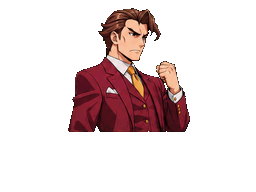
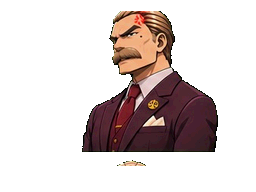
Penna nuevo (perfil en la fiscalía, de frente fuera) y las últimas 3 pruebas del Caso 2
Claude-Session: https://claude.ai/code/session_01Xb94a44mJyTYV8GKKMfxw2

Changed region(s): [[0.25, 0.0312, 0.875, 0.875]]

diff --git a/js/assets.js b/js/assets.js
@@ -1,7 +1,7 @@
 /* Rutas de las imágenes del juego. Para cambiar un sprite, reemplaza el PNG. */
 const ART={ines:{angry:"assets/personajes/ines/angry.png",angryTalk:"assets/personajes/ines/angryTalk.png",ap1:"assets/personajes/ines/ap1.png",ap10:"assets/personajes/ines/ap10.png",ap11:"assets/personajes/ines/ap11.png",ap12:"assets/personajes/ines/ap12.png",ap13:"assets/personajes/ines/ap13.png",ap14:"assets/personajes/ines/ap14.png",ap15:"assets/personajes/ines/ap15.png",ap16:"assets/personajes/ines/ap16.png",ap2:"assets/personajes/ines/ap2.png",ap3:"assets/personajes/ines/ap3.png",ap4:"assets/personajes/ines/ap4.png",ap5:"assets/personajes/ines/ap5.png",ap6:"assets/personajes/ines/ap6.png",ap7:"assets/personajes/ines/ap7.png",ap8:"assets/personajes/ines/ap8.png",ap9:"assets/personajes/ines/ap9.png",base:"assets/personajes/ines/base.png",down:"assets/personajes/ines/down.png",downTalk:"assets/personajes/ines/downTalk.png",face:"assets/personajes/ines/face.png",le1:"assets/personajes/ines/le1.png",le10:"assets/personajes/ines/le10.png",le11:"assets/personajes/ines/le11.png",le12:"assets/personajes/ines/le12.png",le13:"assets/personajes/ines/le13.png",le14:"assets/personajes/ines/le14.png",le15:"assets/personajes/ines/le15.png",le16:"assets/personajes/ines/le16.png",le2:"assets/personajes/ines/le2.png",le3:"assets/personajes/ines/le3.png",le4:"assets/personajes/ines/le4.png",le5:"assets/personajes/ines/le5.png",le6:"assets/personajes/ines/le6.png",le7:"assets/personajes/ines/le7.png",le8:"assets/personajes/ines/le8.png",le9:"assets/personajes/ines/le9.png",papel:"assets/personajes/ines/papel.png",papelTalk:"assets/personajes/ines/papelTalk.png",point:"assets/personajes/ines/point.png",pointTalk:"assets/personajes/ines/pointTalk.png",shock:"assets/personajes/ines/shock.png",shockTalk:"assets/personajes/ines/shockTalk.png",smug:"assets/personajes/ines/smug.png",smugTalk:"assets/personajes/ines/smugTalk.png",sweat:"assets/personajes/ines/sweat.png",sweatTalk:"assets/personajes/ines/sweatTalk.png",talk:"assets/personajes/ines/talk.png",think:"assets/personajes/ines/think.png",thinkTalk:"assets/personajes/ines/thinkTalk.png"},
 
-fiscal:{base:"assets/personajes/fiscal/base.png",talk:"assets/personajes/fiscal/talk.png",smug:"assets/personajes/fiscal/smug.png",smugTalk:"assets/personajes/fiscal/smugTalk.png",cafe:"assets/personajes/fiscal/cafe.png",cafeTalk:"assets/personajes/fiscal/cafeTalk.png",shock:"assets/personajes/fiscal/shock.png",shockTalk:"assets/personajes/fiscal/shockTalk.png",sweat:"assets/personajes/fiscal/sweat.png",sweatTalk:"assets/personajes/fiscal/sweatTalk.png",angry:"assets/personajes/fiscal/angry.png",angryTalk:"assets/personajes/fiscal/angryTalk.png",point:"assets/personajes/fiscal/point.png",pointTalk:"assets/personajes/fiscal/pointTalk.png",cross:"assets/personajes/fiscal/cross.png",crossTalk:"assets/personajes/fiscal/crossTalk.png",face:"assets/personajes/fiscal/face.png",frente_base:"assets/personajes/fiscal/frente_base.png",frente_talk:"assets/personajes/fiscal/frente_talk.png",frente_smug:"assets/personajes/fiscal/frente_smug.png",frente_smugTalk:"assets/personajes/fiscal/frente_smugTalk.png",frente_cafe:"assets/personajes/fiscal/frente_cafe.png",frente_cafeTalk:"assets/personajes/fiscal/frente_cafeTalk.png",frente_shock:"assets/personajes/fiscal/frente_shock.png",frente_shockTalk:"assets/personajes/fiscal/frente_shockTalk.png",frente_sweat:"assets/personajes/fiscal/frente_sweat.png",frente_sweatTalk:"assets/personajes/fiscal/frente_sweatTalk.png",frente_angry:"assets/personajes/fiscal/frente_angry.png",frente_angryTalk:"assets/personajes/fiscal/frente_angryTalk.png",frente_point:"assets/personajes/fiscal/frente_point.png",frente_pointTalk:"assets/personajes/fiscal/frente_pointTalk.png",frente_cross:"assets/personajes/fiscal/frente_cross.png",frente_crossTalk:"assets/personajes/fiscal/frente_crossTalk.png"},
+fiscal:{angry:"assets/personajes/fiscal/angry.png",angryTalk:"assets/personajes/fiscal/angryTalk.png",base:"assets/personajes/fiscal/base.png",cross:"assets/personajes/fiscal/cross.png",cross2:"assets/personajes/fiscal/cross2.png",cross2Talk:"assets/personajes/fiscal/cross2Talk.png",crossTalk:"assets/personajes/fiscal/crossTalk.png",cuff:"assets/personajes/fiscal/cuff.png",cuffTalk:"assets/personajes/fiscal/cuffTalk.png",down:"assets/personajes/fiscal/down.png",downTalk:"assets/personajes/fiscal/downTalk.png",face:"assets/personajes/fiscal/face.png",facepalm:"assets/personajes/fiscal/facepalm.png",facepalmTalk:"assets/personajes/fiscal/facepalmTalk.png",frente_angry:"assets/personajes/fiscal/frente_angry.png",frente_angryTalk:"assets/personajes/fiscal/frente_angryTalk.png",frente_base:"assets/personajes/fiscal/frente_base.png",frente_cross:"assets/personajes/fiscal/frente_cross.png",frente_crossTalk:"assets/personajes/fiscal/frente_crossTalk.png",frente_down:"assets/personajes/fiscal/frente_down.png",frente_downTalk:"assets/personajes/fiscal/frente_downTalk.png",frente_gesture:"assets/personajes/fiscal/frente_gesture.png",frente_gestureTalk:"assets/personajes/fiscal/frente_gestureTalk.png",frente_proud:"assets/personajes/fiscal/frente_proud.png",frente_proudTalk:"assets/personajes/fiscal/frente_proudTalk.png",frente_serious:"assets/personajes/fiscal/frente_serious.png",frente_seriousTalk:"assets/personajes/fiscal/frente_seriousTalk.png",frente_shock:"assets/personajes/fiscal/frente_shock.png",frente_shockTalk:"assets/personajes/fiscal/frente_shockTalk.png",frente_smile:"assets/personajes/fiscal/frente_smile.png",frente_smileTalk:"assets/personajes/fiscal/frente_smileTalk.png",frente_smug:"assets/personajes/fiscal/frente_smug.png",frente_smugTalk:"assets/personajes/fiscal/frente_smugTalk.png",frente_talk:"assets/personajes/fiscal/frente_talk.png",frente_think:"assets/personajes/fiscal/frente_think.png",frente_think2:"assets/personajes/fiscal/frente_think2.png",frente_think2Talk:"assets/personajes/fiscal/frente_think2Talk.png",frente_thinkTalk:"assets/personajes/fiscal/frente_thinkTalk.png",gesture:"assets/personajes/fiscal/gesture.png",gestureTalk:"assets/personajes/fiscal/gestureTalk.png",point:"assets/personajes/fiscal/point.png",pointTalk:"assets/personajes/fiscal/pointTalk.png",proud:"assets/personajes/fiscal/proud.png",proud2:"assets/personajes/fiscal/proud2.png",proud2Talk:"assets/personajes/fiscal/proud2Talk.png",proudTalk:"assets/personajes/fiscal/proudTalk.png",serious:"assets/personajes/fiscal/serious.png",seriousTalk:"assets/personajes/fiscal/seriousTalk.png",shock:"assets/personajes/fiscal/shock.png",shockTalk:"assets/personajes/fiscal/shockTalk.png",smile:"assets/personajes/fiscal/smile.png",smileTalk:"assets/personajes/fiscal/smileTalk.png",smug:"assets/personajes/fiscal/smug.png",smugTalk:"assets/personajes/fiscal/smugTalk.png",sweat:"assets/personajes/fiscal/sweat.png",sweatTalk:"assets/personajes/fiscal/sweatTalk.png",talk:"assets/personajes/fiscal/talk.png",think:"assets/personajes/fiscal/think.png",think2:"assets/personajes/fiscal/think2.png",think2Talk:"assets/personajes/fiscal/think2Talk.png",thinkTalk:"assets/personajes/fiscal/thinkTalk.png"},
 
 testigo:{base:"assets/personajes/testigo/base.png",talk:"assets/personajes/testigo/talk.png",smug:"assets/personajes/testigo/smug.png",smugTalk:"assets/personajes/testigo/smugTalk.png",proud:"assets/personajes/testigo/proud.png",proudTalk:"assets/personajes/testigo/proudTalk.png",sweat:"assets/personajes/testigo/sweat.png",sweatTalk:"assets/personajes/testigo/sweatTalk.png",shock:"assets/personajes/testigo/shock.png",shockTalk:"assets/personajes/testigo/shockTalk.png",angry:"assets/personajes/testigo/angry.png",angryTalk:"assets/personajes/testigo/angryTalk.png",break:"assets/personajes/testigo/break.png",breakTalk:"assets/personajes/testigo/breakTalk.png",cry:"assets/personajes/testigo/cry.png",cryTalk:"assets/personajes/testigo/cryTalk.png",face:"assets/personajes/testigo/face.png"},
 

diff --git a/js/engine.js b/js/engine.js
@@ -26,7 +26,7 @@ function setScene(pos, who, mood, pose, yaVisto){
   if(who===null){ drawSprite(null); return; }
   drawSprite(who,mood,pose);
   sp.dataset.who=who;                                   // Justo tiene su propio encuadre (para que el brazo al apuntar salga completo)
-  sp.classList.toggle("flip", G.pos==="fiscalia");
+  sp.classList.toggle("flip", G.pos==="fiscalia" && who!=="fiscal");   // Penna ya viene dibujado mirando a la izquierda
 }
 function anim(name){
   const sp=$("sprite"), st=$("stage");
@@ -578,7 +578,7 @@ function drawBG(pos){
 /* Qué celda de la hoja usa cada emoción: [callado, hablando, parpadeo] */
 const AMAP={
   ines:{normal:["base","talk"],serious:["base","talk"],smug:["smug","smugTalk"],smile:["smug","smugTalk"],sweat:["sweat","sweatTalk"],shock:["shock","shockTalk"],think:["think","thinkTalk"],angry:["angry","angryTalk"],down:["down","downTalk"],"pose:point":["point","pointTalk"],"pose:papel":["papel","papelTalk"],"pose:papelThink":["le16","le16"]},
-  fiscal:{normal:["base","talk"],serious:["base","talk"],smug:["smug","smugTalk"],smile:["smug","smugTalk"],shock:["shock","shockTalk"],sweat:["sweat","sweatTalk"],angry:["angry","angryTalk"],disdain:["cross","crossTalk"],"pose:point":["point","pointTalk"],"pose:cafe":["cafe","cafeTalk"]},
+  fiscal:{normal:["base","talk"],serious:["serious","seriousTalk"],smug:["smug","smugTalk"],smile:["smile","smileTalk"],shock:["shock","shockTalk"],sweat:["sweat","sweatTalk"],angry:["angry","angryTalk"],disdain:["cross","crossTalk"],think:["think","thinkTalk"],proud:["proud","proudTalk"],down:["down","downTalk"],facepalm:["facepalm","facepalmTalk"],"pose:point":["point","pointTalk"],"pose:cafe":["cuff","cuffTalk"],"pose:gesto":["gesture","gestureTalk"],"pose:cruzado":["cross","crossTalk"]},
   testigo:{normal:["base","talk"],smile:["proud","proudTalk"],smug:["smug","smugTalk"],sweat:["sweat","sweatTalk"],shock:["shock","shockTalk"],angry:["angry","angryTalk"],break:["break","breakTalk"],cry:["cry","cryTalk"]},
   jueza:{normal:["base","talk"],serious:["serious","seriousTalk"],shock:["shock","shockTalk"],think:["think","thinkTalk"],smile:["smile","smileTalk"],confused:["confused","confusedTalk"],disappoint:["disappoint","disappointTalk"],gavel:["gavel","gavelTalk"]},
   cote:{normal:["base","talk"],smile:["happy","happyTalk"],eat:["happy","happyTalk"],excited:["excited","excitedTalk"],think:["think","thinkTalk"],serious:["serious","seriousTalk"],sweat:["sweat","sweatTalk"],worried:["sweat","sweatTalk"],shock:["shock","shockTalk"],pout:["pout","poutTalk"]},
@@ -596,7 +596,7 @@ function artFor(who,mood,pose,m,b){ const A=ART[who]; if(!A) return null; const 
   if(pose==="cafe"&&(mood==="shock"||mood==="sweat")) pose="";
   let e=(pose&&M["pose:"+pose])||M[mood]||M.normal; if(typeof e==="string") e=[e];
   let a=m?(e[1]||e[0]):((b&&e[2])||e[0]);
-  if(A["frente_"+a]) a="frente_"+a;     // si el personaje tiene versión de frente, se usa esa
+  if(A["frente_"+a] && G.pos!=="fiscalia") a="frente_"+a;     // de frente fuera de su puesto (Penna: de perfil en la fiscalía, de frente en la sala de espera)
   return a; }
 const SPR={}; let cur=null, talk=0, blink=0, canTalk=false;
 const off=document.createElement("canvas"); off.width=1024; off.height=768;

diff --git a/casos/caso2.js b/casos/caso2.js
@@ -32,7 +32,7 @@ const EVIDENCE = [
   {id:"credencial", icon:"🪪", name:"Credencial", desc:"Credencial de defensor penal público. Ya tiene un caso ganado.", read:"Mi segundo caso."},
 ];
 const EVIMG = {credencial:"assets/pruebas/credencial.png", plano:"assets/pruebas/plano.png",
-  pistola:"assets/pruebas/pistola.png", autopsia:"assets/pruebas/autopsia.png", bala38:"assets/pruebas/bala38.png", video:"assets/pruebas/video.png", fotocam:"assets/pruebas/fotocam.png", taza:"assets/pruebas/taza.png", pastillas:"assets/pruebas/pastillas.png", fotomadre:"assets/pruebas/fotomadre.png", libro:"assets/pruebas/libro.png", agenda:"assets/pruebas/agenda.png", carta:"assets/pruebas/carta.png", polvora:"assets/pruebas/polvora.png", sangre:"assets/pruebas/sangre.png", inscripcion:"assets/pruebas/inscripcion.png", tarjeta:"assets/pruebas/tarjeta.png", receta:"assets/pruebas/receta.png"};
+  pistola:"assets/pruebas/pistola.png", autopsia:"assets/pruebas/autopsia.png", bala38:"assets/pruebas/bala38.png", video:"assets/pruebas/video.png", fotocam:"assets/pruebas/fotocam.png", taza:"assets/pruebas/taza.png", pastillas:"assets/pruebas/pastillas.png", fotomadre:"assets/pruebas/fotomadre.png", libro:"assets/pruebas/libro.png", agenda:"assets/pruebas/agenda.png", carta:"assets/pruebas/carta.png", polvora:"assets/pruebas/polvora.png", sangre:"assets/pruebas/sangre.png", inscripcion:"assets/pruebas/inscripcion.png", tarjeta:"assets/pruebas/tarjeta.png", receta:"assets/pruebas/receta.png", contrato:"assets/pruebas/contrato.png", boleta:"assets/pruebas/boleta.png", corredera:"assets/pruebas/corredera.png"};
 const EVX = {
   pistola:   {id:"pistola",   icon:"🔫", name:"Pistola 9 mm", desc:"Encontrada en la mochila de Tadeo. Disparada una vez. Sin huellas: alguien la limpió.", read:"El arma del crimen."},
   autopsia:  {id:"autopsia",  icon:"📄", name:"Informe de autopsia", desc:"Leonel Ferrada, 61. Roce de bala en la mejilla izquierda, de frente. Bala 9 mm en la nuca, disparada por la espalda. Muerte instantánea.", read:"Dos heridas, dos direcciones."},

diff --git a/prueba-final.html b/prueba-final.html
@@ -5,7 +5,7 @@
 <meta name="viewport" content="width=device-width, initial-scale=1">
 <title>ACTA CERO — Prueba del final</title>
 <link href="https://fonts.googleapis.com/css2?family=Bebas+Neue&family=Pixelify+Sans:wght@400;700&display=swap" rel="stylesheet">
-<link rel="stylesheet" href="css/style.css?v=46">
+<link rel="stylesheet" href="css/style.css?v=48">
 </head>
 <body>
 <div id="ds">
@@ -49,15 +49,15 @@
     <div class="hint">Activa el sonido · toca la pantalla de abajo para avanzar</div>
   </div>
 </div>
-<script src="js/casos.js?v=46"></script>
-<script src="casos/caso1.js?v=46"></script>
-<script src="casos/caso2.js?v=46"></script>
-<script src="js/audio.js?v=46"></script>
-<script src="js/sprites.js?v=46"></script>
-<script src="js/assets.js?v=46"></script>
-<script src="js/engine.js?v=46"></script>
-<script src="js/investigacion.js?v=46"></script>
-<script src="js/musica.js?v=46"></script>
+<script src="js/casos.js?v=48"></script>
+<script src="casos/caso1.js?v=48"></script>
+<script src="casos/caso2.js?v=48"></script>
+<script src="js/audio.js?v=48"></script>
+<script src="js/sprites.js?v=48"></script>
+<script src="js/assets.js?v=48"></script>
+<script src="js/engine.js?v=48"></script>
+<script src="js/investigacion.js?v=48"></script>
+<script src="js/musica.js?v=48"></script>
 <script>
 /* Versión de prueba: salta directo al veredicto y la escena final del Caso 1. No toca la partida guardada. */
 saveGame=function(){ return true; }; clearSave=function(){};

diff --git a/index.html b/index.html
@@ -5,7 +5,7 @@
 <meta name="viewport" content="width=device-width, initial-scale=1">
 <title>ACTA CERO</title>
 <link href="https://fonts.googleapis.com/css2?family=Bebas+Neue&family=Pixelify+Sans:wght@400;700&display=swap" rel="stylesheet">
-<link rel="stylesheet" href="css/style.css?v=46">
+<link rel="stylesheet" href="css/style.css?v=48">
 </head>
 <body>
 <div id="ds">
@@ -48,14 +48,14 @@
     <div class="hint">Activa el sonido · toca la pantalla de abajo para avanzar</div>
   </div>
 </div>
-<script src="js/casos.js?v=46"></script>
-<script src="casos/caso1.js?v=46"></script>
-<script src="casos/caso2.js?v=46"></script>
-<script src="js/audio.js?v=46"></script>
-<script src="js/sprites.js?v=46"></script>
-<script src="js/assets.js?v=46"></script>
-<script src="js/engine.js?v=46"></script>
-<script src="js/investigacion.js?v=46"></script>
-<script src="js/musica.js?v=46"></script>
+<script src="js/casos.js?v=48"></script>
+<script src="casos/caso1.js?v=48"></script>
+<script src="casos/caso2.js?v=48"></script>
+<script src="js/audio.js?v=48"></script>
+<script src="js/sprites.js?v=48"></script>
+<script src="js/assets.js?v=48"></script>
+<script src="js/engine.js?v=48"></script>
+<script src="js/investigacion.js?v=48"></script>
+<script src="js/musica.js?v=48"></script>
 </body>
 </html>

diff --git a/css/style.css b/css/style.css
@@ -261,3 +261,6 @@ button.back{background:#283458!important}
 #botS #controls{justify-content:center;gap:4cqw}
 .card .ic{height:9.5cqw}
 .card .ic img{height:100%;width:auto;max-width:100%;image-rendering:pixelated}
+/* Penna: sus cuadros vienen corridos a la derecha para que el dedo al apuntar no se corte */
+#sprite[data-who=fiscal]{left:42.2%}
+.pos-fiscalia #sprite[data-who=fiscal]{left:50%}

diff --git a/herramientas/penna.py b/herramientas/penna.py
@@ -1,0 +1,87 @@
+"""Penna (hoja 8×5 de 40 cuadros): filas 1-3 de perfil (mira a la izquierda), filas 4-5 de frente.
+Uso: python3 herramientas/penna.py CARPETA_SALIDA TARGET BOT DX
+Cada cuadro se recorta con margen y se queda solo con la figura del centro (así el dedo que sobresale de su celda no se corta)."""
+import sys, os, numpy as np, cv2
+from PIL import Image
+OUT=sys.argv[1]; TGT=float(sys.argv[2]); BOT=int(sys.argv[3]); DX=int(sys.argv[4]); CW=int(os.environ.get('CW','256'))
+os.makedirs(OUT,exist_ok=True)
+im=np.array(Image.open('arte-original/penna-nuevo.jpg').convert('RGB')).astype(int)
+H0,W0=im.shape[:2]; r,g,b=im[...,0],im[...,1],im[...,2]
+key=(g>140)&(g>r*1.45)&(g>b*1.45); spill=(g>r*1.15)&(g>b*1.15)&~key; im[...,1]=np.where(spill,np.maximum(r,b),g)
+A=np.where(key,0,255).astype(np.uint8); RGB=im.clip(0,255).astype(np.uint8)
+cw,ch=W0/8,H0/5; M=70
+def cell(k):
+    x0,y0=round(k%8*cw),round(k//8*ch); x1,y1=round(x0+cw),round(y0+ch)
+    X0,Y0,X1,Y1=max(x0-M,0),y0,min(x1+M,W0),min(y1,H0)
+    a=A[Y0:Y1,X0:X1].copy(); n,lab,st,cen=cv2.connectedComponentsWithStats((a>0).astype(np.uint8),8)
+    keep=np.zeros_like(a,bool); cx,cy=(x0+x1)/2-X0,(y0+y1)/2-Y0
+    big=max(range(1,n),key=lambda i:st[i,4]-1e6*((cen[i][0]<x0-X0)|(cen[i][0]>x1-X0)))   # la figura de esta celda
+    for i in range(1,n):
+        if i==big or (x0-X0<=cen[i][0]<=x1-X0 and st[i,4]>20): keep|=lab==i
+    a[~keep]=0
+    return Image.fromarray(np.dstack([RGB[Y0:Y1,X0:X1],a]),'RGBA'), X0-x0
+def g8(c):
+    a=np.asarray(c).astype(np.float32); g=a[...,:3].mean(2); g[a[...,3]==0]=128; return g.astype(np.uint8)
+cells=[cell(k) for k in range(40)]
+HH=95; SC=TGT/HH
+def anchor(k0):
+    c,off=cells[k0]; bb=c.getbbox(); top=bb[1]; hb=c.crop((0,top,c.width,top+HH)).getbbox()
+    return dict(tpl=g8(c)[top:top+HH,hb[0]:hb[2]],hx0=hb[0],top=top,bb=bb,w=c.width)
+PROF=anchor(0); FRON=anchor(24)
+def match(c,T):
+    g=g8(c); best=(-1,1,0,0)
+    for f in np.arange(.8,1.25,.02):
+        t=cv2.resize(T['tpl'],None,fx=f,fy=f,interpolation=cv2.INTER_AREA)
+        if t.shape[0]>=g.shape[0] or t.shape[1]>=g.shape[1]: continue
+        rr=cv2.matchTemplate(g,t,cv2.TM_CCOEFF_NORMED); _,mv,_,ml=cv2.minMaxLoc(rr)
+        if mv>best[0]: best=(mv,f,ml[0],ml[1])
+    return best
+# dónde queda la cabeza en pantalla (igual para perfil y frente)
+AX=128+DX; AY=BOT-round(PROF['bb'][3]*SC)+PROF['top']*SC
+REF={}
+def head_anchor(c,front):
+    """Punto fijo de la cabeza: arriba del pelo y la nuca (perfil) o el centro del pelo (frente)."""
+    a=np.array(c)[...,3]>0; rows=np.where(a.sum(1)>8)[0]; t=rows[0]
+    band=a[t:t+40]; xs=np.where(band.any(0))[0]
+    if front: return (xs.min()+xs.max())/2, t
+    return xs.max(), t
+def place(k,T):
+    """Mismo tamaño para todo el grupo; cada cuadro se alinea por la parte de arriba y de atrás de la cabeza."""
+    c,off=cells[k]; front=T is FRON; key=id(T)
+    if key not in REF:
+        _,f0,mx0,my0=match(c,T); hx,hy=head_anchor(c,front); REF[key]=(f0,mx0-hx,my0-hy)
+    f,dx,dy=REF[key]; hx,hy=head_anchor(c,front); mx,my=hx+dx,hy+dy; sc=1.0
+    s=SC/f; sm=c.resize((round(c.width*s),round(c.height*s)),Image.LANCZOS)
+    hw=T['tpl'].shape[1]*SC                                      # ancho de la cabeza en pantalla
+    out=Image.new('RGBA',(CW,192)); out.paste(sm,(round(AX-hw/2-mx*s),round(AY-my*s)),sm)
+    a=np.array(out); m=a[...,3]>140; a[...,:3]&=0xF8; a[...,3]=np.where(m,255,0); a[~m]=0
+    return Image.fromarray(a),round(float(sc),2)
+F={}; log=[]
+for k in range(40):
+    F[k+1],sc=place(k, PROF if k<24 else FRON); log.append((k+1,sc))
+def boxof(ca,cb):
+    d=np.abs(np.array(F[ca])[...,:3].astype(int)-np.array(F[cb])[...,:3].astype(int)).sum(2)
+    a=np.array(F[ca])[...,3]>0; ys=np.where(a.any(1))[0]; t=ys[0]
+    d[:t+30]=0; d[t+75:]=0; m=d>90
+    yy,xx=np.where(m); cy,cx=int(np.median(yy)),int(np.median(xx))
+    return (max(cy-6,0),cy+7,max(cx-9,0),cx+10)
+BP=boxof(1,3); BF=boxof(25,26)
+def talk(closed,opn,box):
+    a=np.array(F[closed]); b=np.array(F[opn]); y0,y1,x0,x1=box
+    d=np.abs(a[...,:3].astype(int)-b[...,:3].astype(int)).sum(2)
+    m=np.zeros(a.shape[:2],bool); m[y0:y1,x0:x1]=(d[y0:y1,x0:x1]>60)|((a[y0:y1,x0:x1,3]==0)!=(b[y0:y1,x0:x1,3]==0))
+    o=a.copy(); o[m]=b[m]; return Image.fromarray(o)
+# nombre: (cuadro cerrado, cuadro con la boca abierta o None)
+P={'base':(1,3),'serious':(2,3),'smug':(4,3),'smile':(6,3),'proud':(7,None),'proud2':(8,None),'think':(9,3),'think2':(10,3),
+   'cross':(11,12),'gesture':(13,14),'point':(15,16),'sweat':(17,3),'shock':(18,None),'angry':(19,20),'facepalm':(21,None),
+   'down':(22,None),'cuff':(23,3),'cross2':(24,3)}
+FR={'base':(25,26),'smug':(28,27),'serious':(29,26),'think':(30,26),'think2':(31,26),'cross':(32,26),'gesture':(33,26),
+    'smile':(35,34),'proud':(36,None),'shock':(37,None),'angry':(38,39),'down':(40,None)}
+def save(n,im): im.save(f'{OUT}/{n}.png',optimize=True)
+for pre,TAB,BOX in (('',P,BP),('frente_',FR,BF)):
+    for n,(c,o) in TAB.items():
+        save(pre+n,F[c]); t=n+'Talk' if n!='base' else 'talk'
+        save(pre+t, F[c] if o is None else (F[o] if (c,o) in ((11,12),(13,14),(15,16),(19,20)) else talk(c,o,BOX)))
+b0=F[1]; l,t,r_,b_=b0.getbbox(); hb=b0.crop((0,t,CW,t+40)).getbbox(); cx=(hb[0]+hb[2])//2
+b0.crop((cx-33,t,cx+33,t+70)).transpose(Image.FLIP_LEFT_RIGHT).save(f'{OUT}/face.png')
+print(log)

diff --git a/CLAUDE.md b/CLAUDE.md
@@ -89,8 +89,10 @@ Justo: poses de `arte-original/justo-perfil-b.png` (perfil, **siempre mira a la 
 los lentes y toma un papel). `TRANS` en engine.js pasa esos cuadros al entrar o salir de `pose:"point"` y `pose:"papel"`
 (`papelThink` = pensando con el papel). Las tres hojas se alinean juntas con `herramientas/justo.py` (args: carpeta 50 142 -20). Los cuadros vienen corridos
 a la izquierda para que el brazo al apuntar salga entero; el CSS (`#sprite[data-who=ines]`) compensa la posición.
-Versión de frente: si existe `frente_<cuadro>` en `ART[personaje]`, se usa en vez del cuadro normal. Hoy: Penna
-(la hoja de perfil sigue en `assets/personajes/fiscal/` como respaldo).
+Penna: hoja nueva `arte-original/penna-nuevo.jpg` (8×5): filas 1-3 de perfil (mira a la izquierda, sin espejo), filas 4-5 de frente.
+Se procesa con `herramientas/penna.py CARPETA 72 160 14`. Versión de frente: `frente_<cuadro>` se usa **fuera de la fiscalía**
+(sala de espera, etc.); en su puesto sale de perfil. Poses: `point`, `cafe` (hoy se acomoda el puño: la hoja nueva no trae café),
+`gesto`, `cruzado`; emociones extra: `think`, `proud`, `down`, `facepalm`.
 
 ## Pantalla de abajo (HUD)
 Diseño del dueño en `assets/hud/` (originales en `arte-original/hud/`): `panel.jpg` (fondo 4:3 armado del panel), `botones.png`
